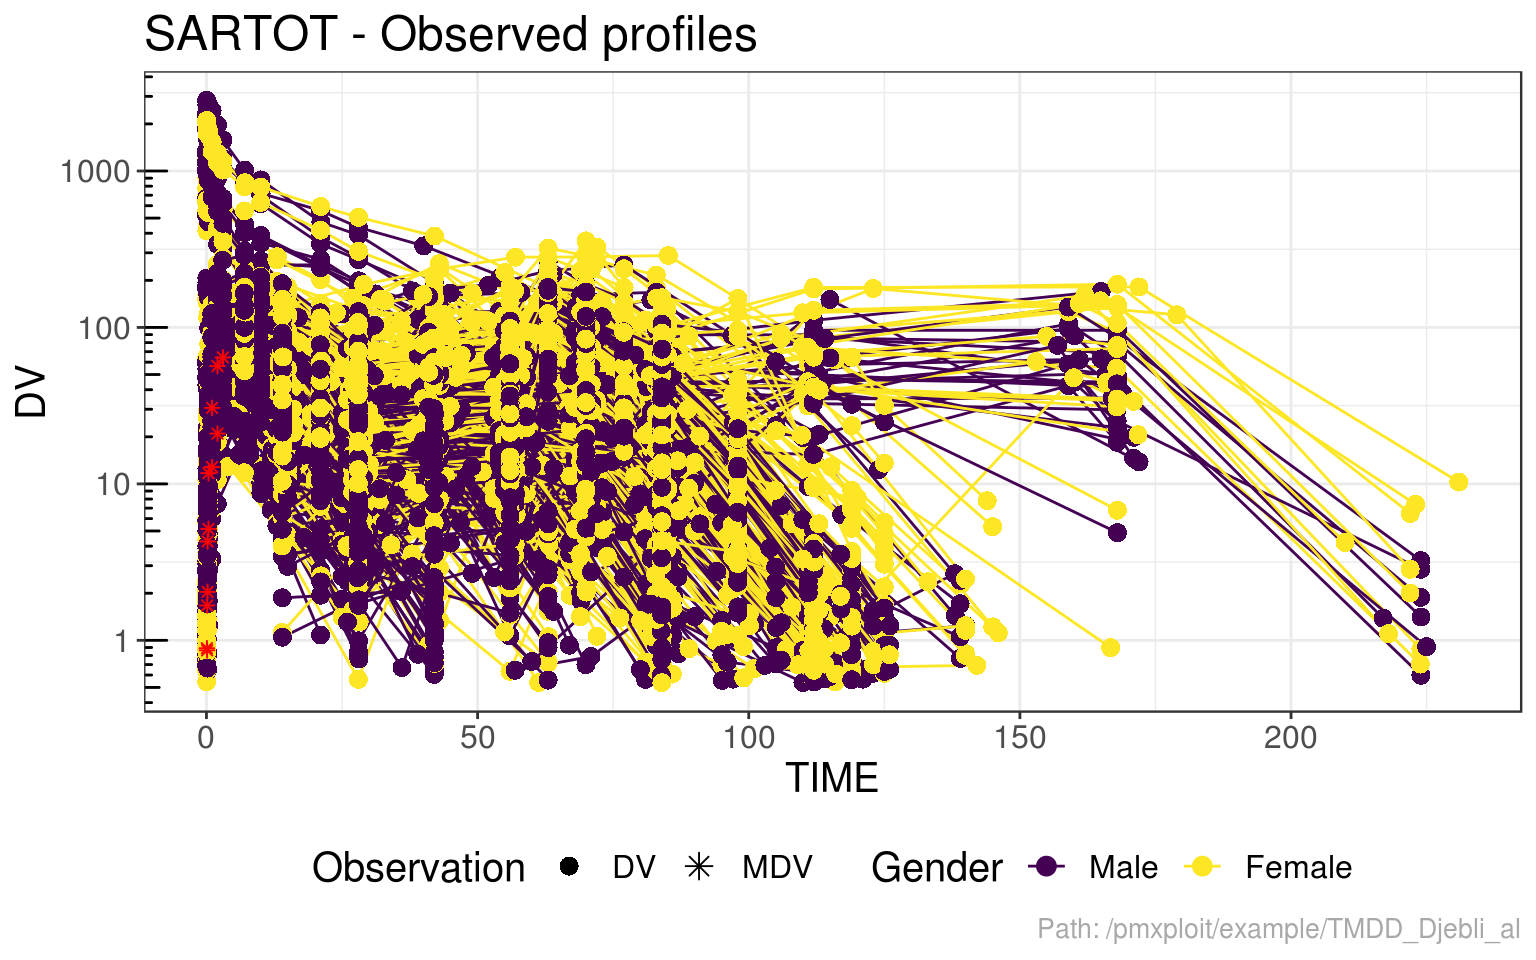
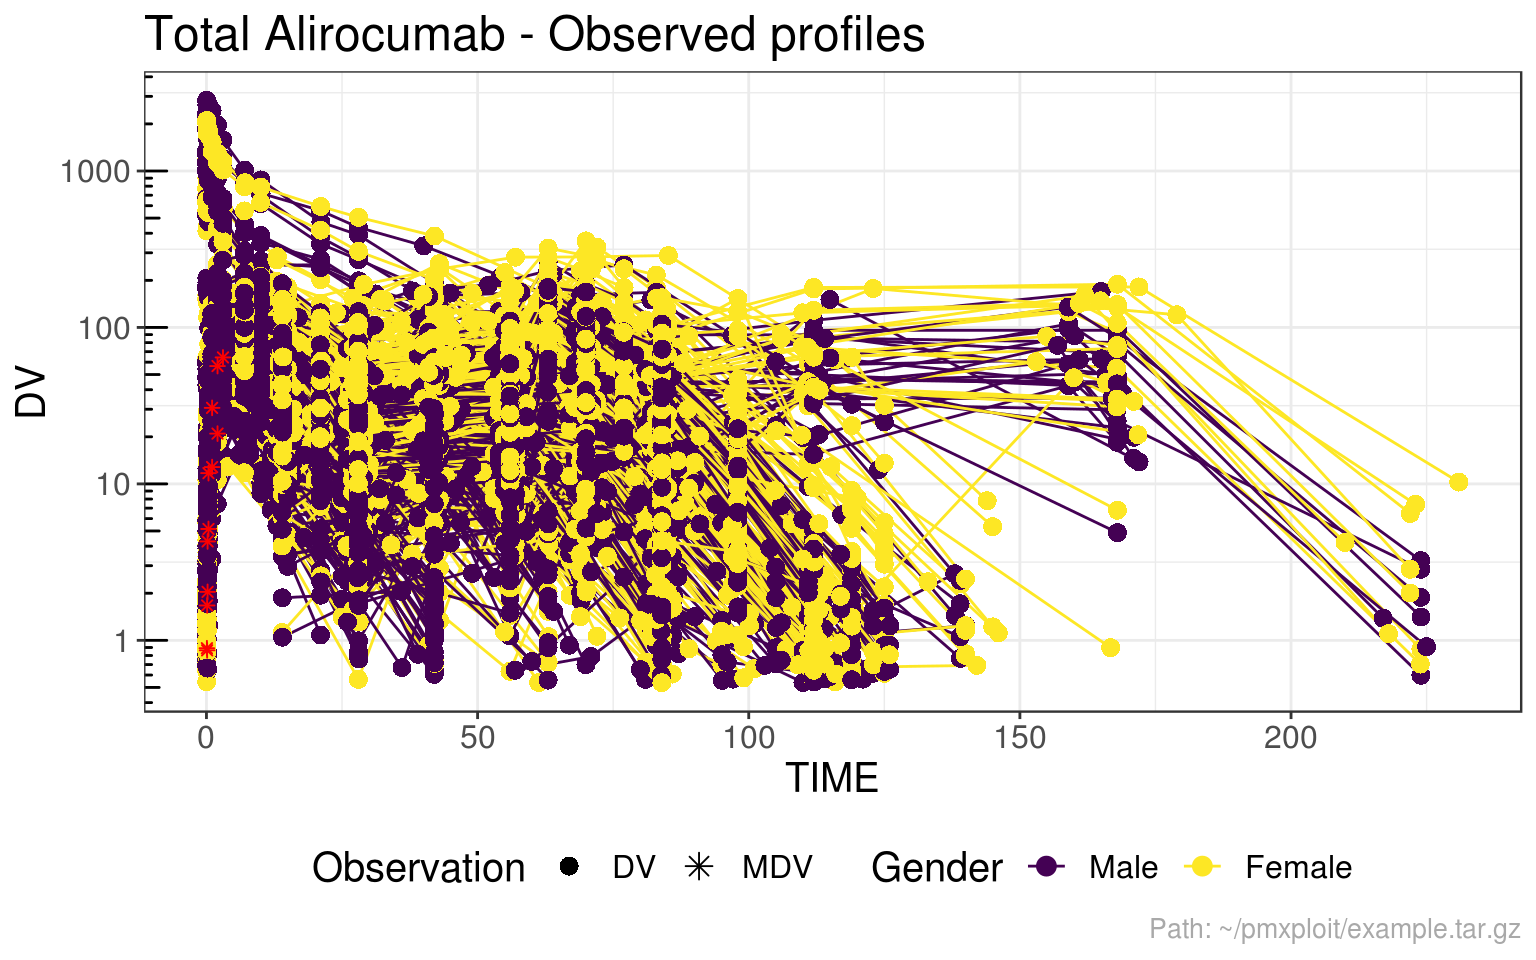
pkgdown

Changed region(s): [[0.0938, 0.0, 0.5938, 0.0625], [0.6875, 0.9375, 1.0, 1.0]]

diff --git a/docs/articles/pmxploit.html b/docs/articles/pmxploit.html
@@ -207,14 +207,14 @@ run<span class="op">$</span>estimations <span class="op">%&gt;%</span>
 </tr>
 <tr class="even">
 <td align="right">2</td>
-<td align="left">SARTOT</td>
+<td align="left">Total Alirocumab</td>
 <td align="left">TRUE</td>
 <td align="left">continuous</td>
 <td align="left">NA</td>
 </tr>
 <tr class="odd">
 <td align="right">3</td>
-<td align="left">TPCSK9</td>
+<td align="left">Total PCSK9</td>
 <td align="left">TRUE</td>
 <td align="left">continuous</td>
 <td align="left">NA</td>
